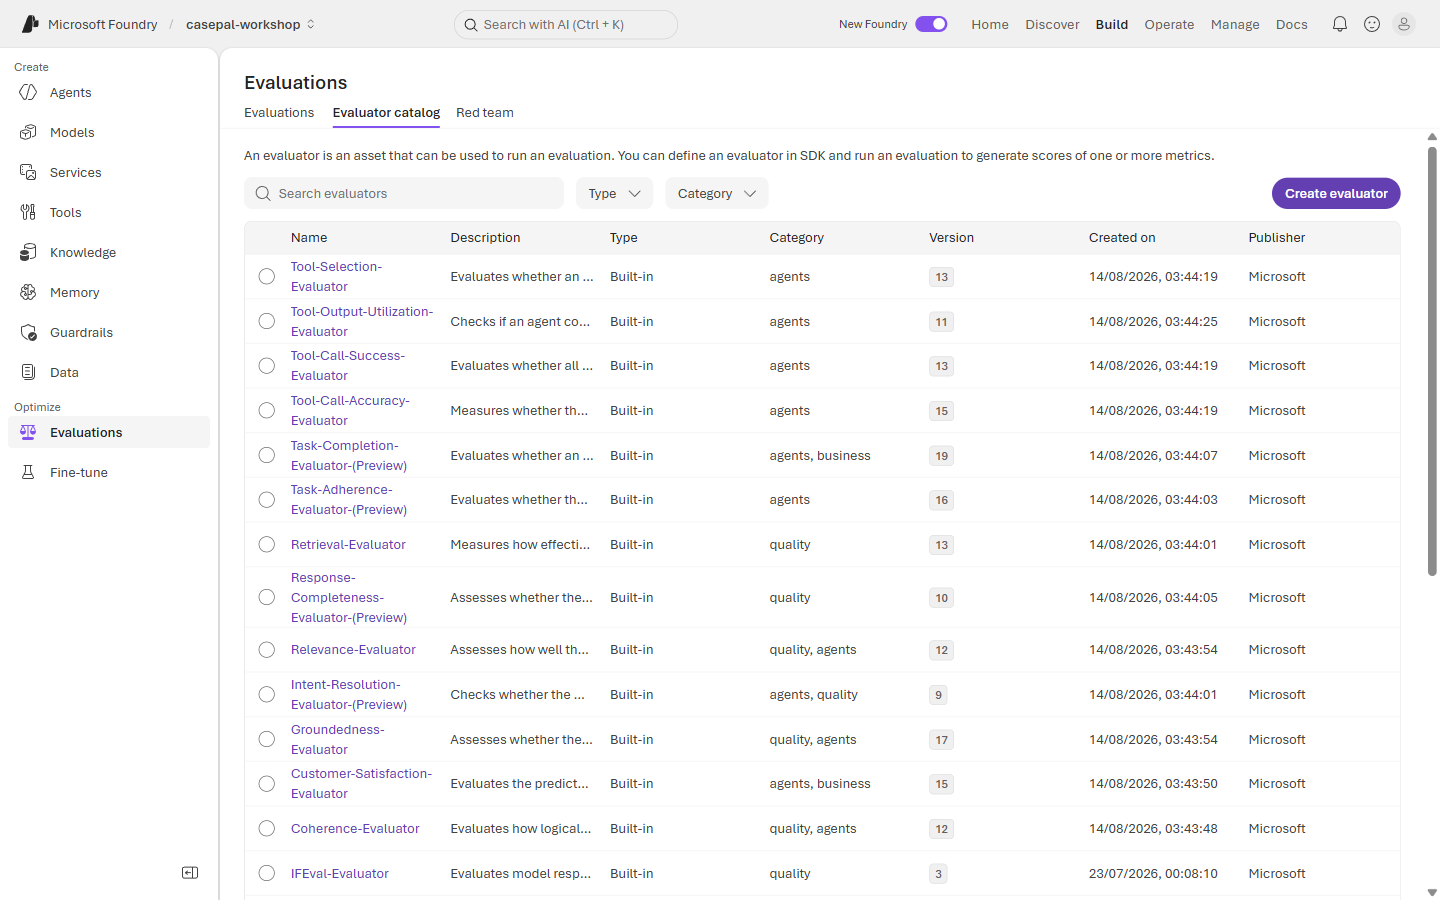
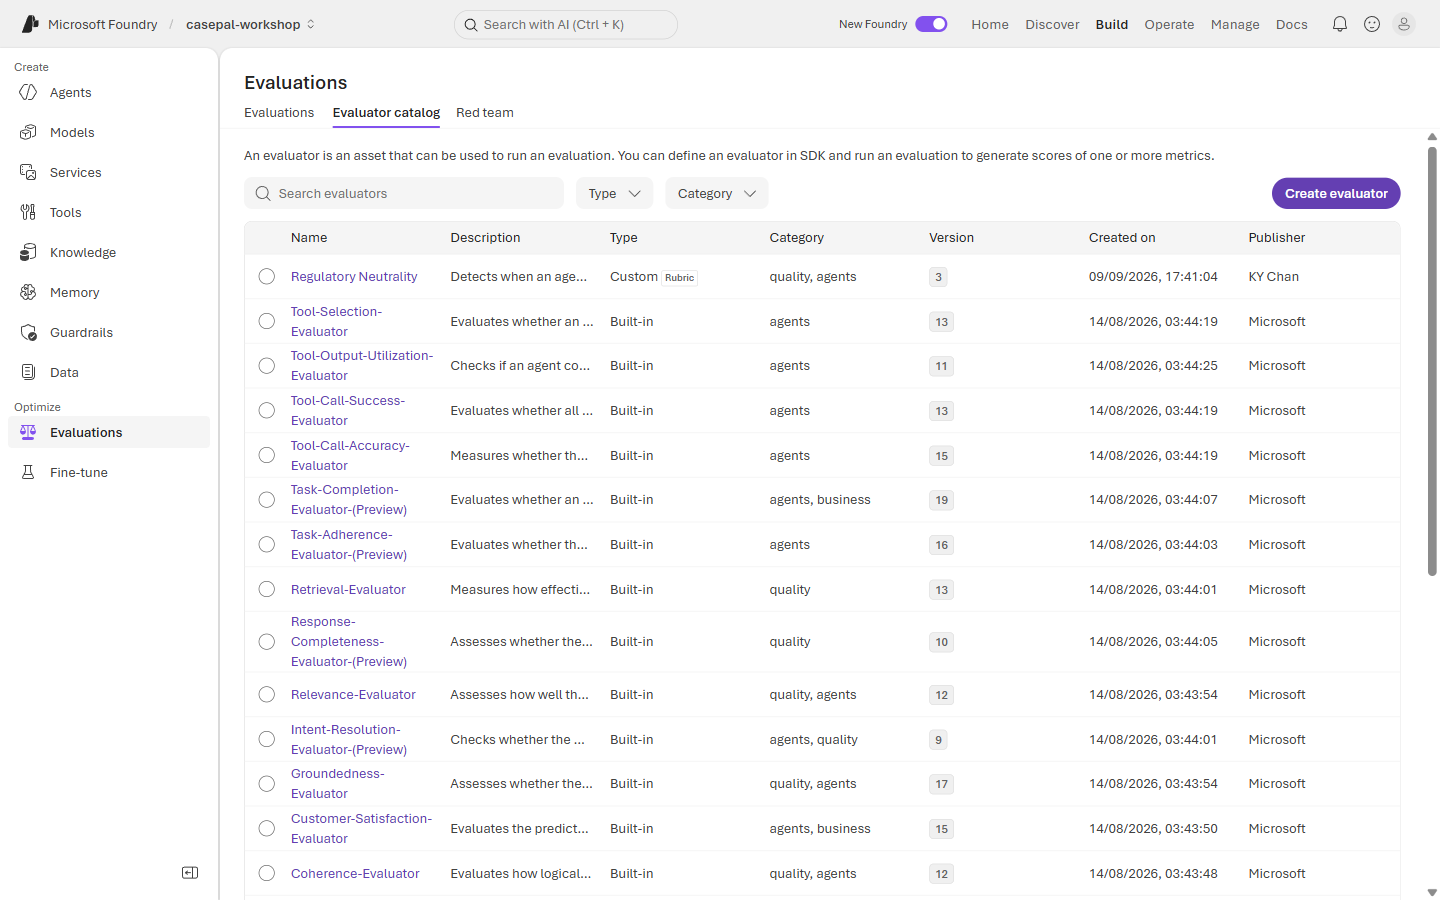
Lab 3: pre-create Regulatory Neutrality evaluator + batch run for walkthrough
Feedback from the facilitator: the previous Steps 3-4 asked participants
to build a custom Regulatory Neutrality evaluator and run a batch
evaluation from scratch. Both take too long (batch evals run for
15-45 minutes) and both fail when the promised custom evaluator
doesn't actually exist in the project.

What changed IN THE PROJECT:
- Created a real 'Regulatory Neutrality' custom rubric evaluator via
  the portal's Create evaluator flow. Foundry auto-generated 8 weighted
  dimensions:
    avoid_binding_directives (9), bias_rebuttal_with_citation (6),
    explicit_deferral_of_authority (5), process_bounded_guidance (5),
    citation_validity_alignment (4), + 3 more.
  Judge model gpt-5, pass threshold 0.5. Now visible in the workspace
  Evaluator catalog as Custom | Rubric published by KY Chan.
- Kicked off a real batch run: eval-dnxagmso targeting
  casepal-demo-guarded against a 20-row synthetic dataset generated
  from a domain-specific prompt. Runs Regulatory Neutrality plus 20
  auto-suggested evaluators (Groundedness, Relevance, IndirectAttack,
  the safety categories, tool-usage evaluators).

What changed in lab-03.md:
- Step 4 rewritten as a WALKTHROUGH. Points participants at the
  Evaluator catalog to browse the built-ins AND the pre-created
  Regulatory Neutrality. Includes the auto-generated rubric detail
  screenshot so participants see the 8 dimensions with weights.
- Step 5 rewritten as a WALKTHROUGH. Points participants at the
[…]

diff --git a/content/labs/lab-03.md b/content/labs/lab-03.md
@@ -70,26 +70,43 @@ A **Regulatory-Neutrality** evaluator for CasePal — one that flags any reply m
 
    Every chat reply now gets scored on the fly. There is no separate "shared evaluator set" the facilitator publishes for you — the built-ins are simply available in every project.
 
-4. Foundry ships a rich **Evaluator catalog** at workspace **Evaluations → Evaluator catalog**. Take a moment to browse it — this is where **Groundedness-Evaluator**, **Retrieval-Evaluator**, **Response-Completeness-Evaluator**, and the tool-usage evaluators live. All are Built-in and published by Microsoft.
+4. Foundry ships a rich **Evaluator catalog** at workspace **Evaluations → Evaluator catalog**. The Groundedness-Evaluator, Retrieval-Evaluator, Relevance-Evaluator, Response-Completeness-Evaluator, and the full tool-usage set are built-in and published by Microsoft. **A custom `Regulatory Neutrality` evaluator has been pre-created for this workshop** — you should see it at the top of the catalog as **Custom · Rubric**.
 
-   ![Evaluator catalog table showing built-in evaluators published by Microsoft: Tool-Selection-Evaluator, Tool-Output-Utilization-Evaluator, Tool-Call-Success-Evaluator, Tool-Call-Accuracy-Evaluator, Task-Completion-Evaluator (Preview), Task-Adherence-Evaluator (Preview), Retrieval-Evaluator, Response-Completeness-Evaluator (Preview), Relevance-Evaluator, Intent-Resolution-Evaluator (Preview), Groundedness-Evaluator, Customer-Satisfaction-Evaluator, Coherence-Evaluator, IFEval-Evaluator. A purple 'Create evaluator' button in the top-right.](screenshots/lab-03/nav-04-evaluator-catalog.png)
+   ![Evaluator catalog table with Regulatory Neutrality at the top (Custom, Rubric, quality/agents, Version 3, Publisher: workshop facilitator), followed by all built-in Microsoft evaluators — Tool-Selection-Evaluator, Tool-Output-Utilization-Evaluator, Tool-Call-Success-Evaluator, Tool-Call-Accuracy-Evaluator, Task-Completion-Evaluator, Task-Adherence-Evaluator, Retrieval-Evaluator, Response-Completeness-Evaluator, Relevance-Evaluator, Intent-Resolution-Evaluator, Groundedness-Evaluator, Customer-Satisfaction-Evaluator, Coherence-Evaluator](screenshots/lab-03/nav-04-evaluator-catalog.png)
 
-   For a **domain-specific evaluator** like *Regulatory-Neutrality* (checks whether the reply makes binding statements on behalf of the Agency or recommends specific regulatory actions), Foundry now offers **Custom rubric evaluators**. Click **Create evaluator** at the top-right of the catalog and describe your criteria in plain English — Foundry generates a scored rubric with weights for you. This is a facilitator-owned setup step for this workshop; if you don't see a custom evaluator in the catalog yet, you're skipping this and using the built-ins.
+   Click **Regulatory Neutrality** to see how the facilitator built it. Foundry's **Custom rubric evaluator** feature takes a plain-English description of what the agent should do and generates a scored rubric with weighted dimensions. For CasePal that produced eight dimensions:
+   - `avoid_binding_directives` (weight 9)
+   - `bias_rebuttal_with_citation` (weight 6)
+   - `explicit_deferral_of_authority` (weight 5)
+   - `process_bounded_guidance` (weight 5)
+   - `citation_validity_alignment` (weight 4)
+   - (plus three more below the fold)
 
-5. Run a batch evaluation. Head to the workspace **Evaluations** page (left nav → Evaluations, then the **Evaluations** tab, **Runs** view) and click **Create**.
+   Pass score threshold: **0.5**. Each dimension is scored 1–5 by a judge model (`gpt-5`), then aggregated to an overall 0–1 score.
 
-   ![Workspace Evaluations page: empty state 'No evaluations found', a search box, Frequency filter, and a purple Create button. A NEW banner reads 'Custom rubric evaluators are here. Describe what your agent should do, and get scored criteria with weights generated for your use case.'](screenshots/lab-03/nav-03-workspace-evaluations.png)
+   ![Regulatory Neutrality evaluator detail: Generated rubric with 8 dimensions, each with a weight (1-10), title, and description. Judge model gpt-5. Pass score threshold 0.5. Evaluator type Rubric, Auto-generate rubric enabled. Regenerate rubric and Save evaluator buttons.](screenshots/lab-03/nav-05-regneut-rubric.png)
 
-   In the Create flow, pick your **agent version**, the **evaluators** (built-in + custom rubric if you created one), and upload **`content/assets/casepal-eval-dataset.jsonl`** as the dataset. Kick it off. Repeat the run against the bare Lab-2 agent to see the delta.
+   > 💡 You don't need to build one yourself for this lab — the facilitator has already done it. If you want to see the flow, click **Create evaluator** at the top-right and browse the form (then Cancel).
 
-   Comparison from the Builder-rail script `content/assets/lab3_eval.py` running the 22-row dataset through both the bare and the guarded agents:
+5. **View a completed batch evaluation run.** The facilitator has already kicked off a run of the guarded agent against a synthetic 20-row dataset using Regulatory Neutrality + Groundedness + Relevance + IndirectAttack + the safety categories. Navigate to **Evaluations → Runs** and open **`eval-dnxagmso`** (or whatever the facilitator names the current run).
+
+   ![Evaluation run detail page for eval-dnxagmso showing one Evaluation run against target casepal-demo-guarded with dataset casepal_demo_guarded_..., status 'In progress' (spinning icon). Buttons at top: Delete, Make recurring, Add run. Compare runs and Analyze Results buttons on the right.](screenshots/lab-03/nav-06-eval-run-in-progress.png)
+
+   Click the run to open the results panel. Look at:
+   - **Overall score** — one number per row for each evaluator.
+   - **Per-dimension scores** for Regulatory Neutrality — see which dimensions the guarded agent scored highest on (usually `explicit_deferral_of_authority` and `avoid_binding_directives`).
+   - **Analyze Results** — Foundry's built-in AI analysis of failed rows.
+
+   > 💡 **Full evaluations take 15–45 minutes** to complete because every row goes through several LLM-judge calls. This lab is a walkthrough — you're looking at the finished output, not waiting for a fresh run.
+
+   For a fast Python comparison against 22 canned prompts, the Builder rail (`content/assets/lab3_eval.py`) shows guarded > baseline on every dimension in under 5 minutes:
 
    ![Terminal transcript of the batch evaluation: per-prompt scores for baseline and guarded agents, averages showing guarded > baseline on every dimension, Content Safety intercepting the direct prompt-injection at the prompt-shield level](screenshots/lab-03/eval-final-terminal.png)
 
 6. Open the **Traces** tab. Send Kai's question again from Chat. Find the resulting trace and inspect:
    - The **Guardrails** step — should show *intercepted / allowed* status.
    - The **Model call** — what the model actually returned.
-   - The **Evaluators** — per-turn scores.
+   - The **Evaluators** — per-turn scores from the Quick evaluations you selected in Step 3.
 
    ![Foundry Traces tab with Trace / Conversation / Response view tabs and filter chips for Status, Duration, Tokens, Cost, Evaluators, and Annotation](screenshots/lab-03/05-traces-tab.png)
 
